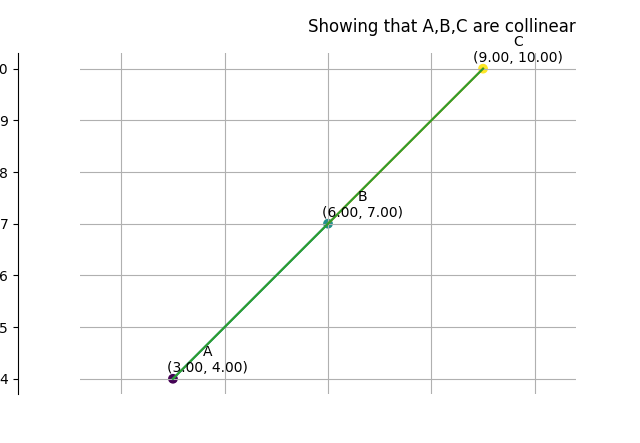
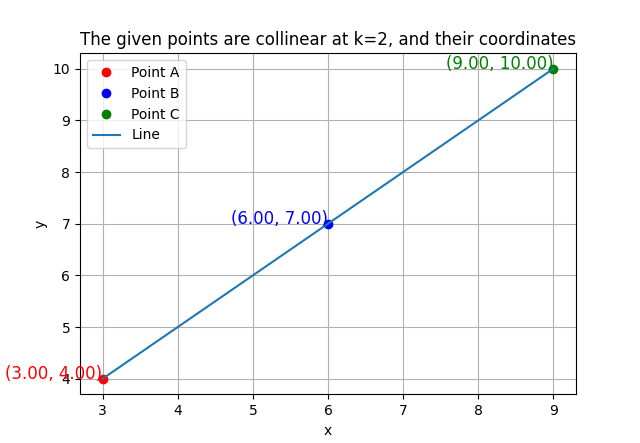
wtvr

diff --git a/Termux/Mathgeo/codes/code.c b/Termux/Mathgeo/codes/code.c
@@ -1,0 +1,69 @@
+#include <stdio.h>
+#include <stdlib.h>
+#include <math.h>
+#include "libs/matfun.h"
+#include "libs/geofun.h"
+
+double **normal2Dto(double **a){
+	double **normal = createMat(2,1);
+	normal[0][0] = -a[1][0];
+	normal[1][0] = a[0][1];
+	freeMat(normal,2);
+	return normal;
+}
+
+double valueofk(double ax1,double bx1,double ay1,double by1,double ax2,double bx2,double ay2,double by2,double ax3,double bx3,double ay3,double by3){
+	// A = (ax1k+bx1, ay1k+by1), B = (ax2k+bx2, ay2k+by2), C = (ax3k+bx3, ay3k+by3)
+	double A = ((ay1-ay2)*(ax2-ax3)-(ax1-ax2)*(ay2-ay3));
+	double B = ((by1-by2)*(ax2-ax3)+(bx2-bx3)*(ay1-ay2)-(bx1-bx2)*(ay2-ay3)-(ax1-ax2)*(by2-by3));
+	double C = ((by1-by2)*(bx2-bx3)-(bx1-bx2)*(by2-by3));
+	double k = ((-B-sqrt(B*B-4*A*C))/(2*A));
+	return k;
+}
+
+void point_gen(FILE *fptr, double **A, double **B, int no_rows, int no_cols, int num_points) {
+    for (double i = 0; i <= num_points; i++) {
+        double **output = Matadd(A, Matscale(Matsub(B,A,no_rows,no_cols),no_rows,no_cols,(double)i/num_points), no_rows, no_cols);
+        fprintf(fptr, "%lf,%lf\n", output[0][0], output[1][0]);
+        freeMat(output,no_rows);
+    }
+}
+
+int main() {
+    int m = 2; int n = 1;
+    double **A = createMat(m, n);
+    double **B = createMat(m, n);
+    double **C = createMat(m, n);
+    
+    double ax1=1, bx1=1, ay1=2, by1=0, ax2=3, bx2=0, ay2=2, by2=3, ax3=5, bx3=-1, ay3=5, by3=0; 
+    
+    double k = valueofk(ax1, bx1, ay1, by1, ax2, bx2, ay2, by2, ax3, bx3, ay3, by3);
+    
+    double x1=ax1*k+bx1, y1=ay1*k+by1, x2=ax2*k+bx2, y2=ay2*k+by2, x3=ax3*k+bx3, y3=ay3*k+by3;
+
+    A[0][0] = x1;
+    A[1][0] = y1;
+    B[0][0] = x2;
+    B[1][0] = y2;
+    C[0][0] = x3;
+    C[1][0] = y3;
+
+    FILE *fptr;
+    fptr = fopen("points.dat", "w");
+    if (fptr == NULL) {
+        printf("Error opening file!\n");
+        return 1;
+    }
+
+    point_gen(fptr, A, B, m, n, 20);
+    point_gen(fptr, B, C, m, n, 20);
+    
+    fprintf(fptr, "The value of k is %lf",k);
+    
+     // Free all allocated memory
+    freeMat(A,m);
+    freeMat(B,m);
+    freeMat(C,m);
+    fclose(fptr);
+    return 0;
+}

diff --git a/Termux/Mathgeo/codes/plot.py b/Termux/Mathgeo/codes/plot.py
@@ -1,0 +1,35 @@
+import numpy as np
+import matplotlib.pyplot as plt
+
+# Load the points from the text file
+points = np.loadtxt("points.dat", delimiter=',',max_rows=len(list(open("./points.dat")))-1)
+
+# Extract the x and y coordinates
+x = points[:, 0]
+y = points[:, 1]
+
+A = np.array([points[0,0],points[0,1]])
+B = np.array([points[20,0],points[20,1]])
+C = np.array([points[41,0],points[41,1]])
+
+plt.figure()  # Create a new figure for the plot
+plt.plot(A[0], A[1], 'ro', label='Point A')  # Red dot for point A
+plt.plot(B[0], B[1], 'bo', label='Point B')  # Blue dot for point B
+plt.plot(C[0], C[1], 'go', label='Point C')  # Green dot for point C
+
+# Display the coordinates of each point near the point marker
+plt.text(A[0], A[1], f'({A[0]:.2f}, {A[1]:.2f})', fontsize=12, ha='right', color='red')
+plt.text(B[0], B[1], f'({B[0]:.2f}, {B[1]:.2f})', fontsize=12, ha='right', color='blue')
+plt.text(C[0], C[1], f'({C[0]:.2f}, {C[1]:.2f})', fontsize=12, ha='right', color='green')
+
+# Plot the triangle
+plt.plot(x, y, label='Line')
+plt.xlabel("x")
+plt.ylabel("y")
+plt.title("The given points are collinear at k=2, and their coordinates")
+plt.grid(True)
+plt.legend()
+
+# Save the plot to figs directory
+#plt.savefig('../figs/fig.png')
+plt.show()
